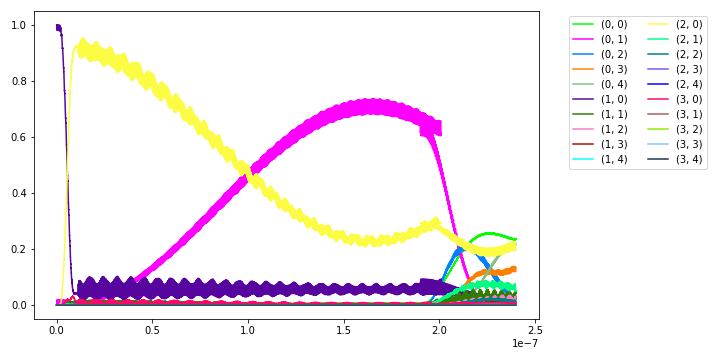
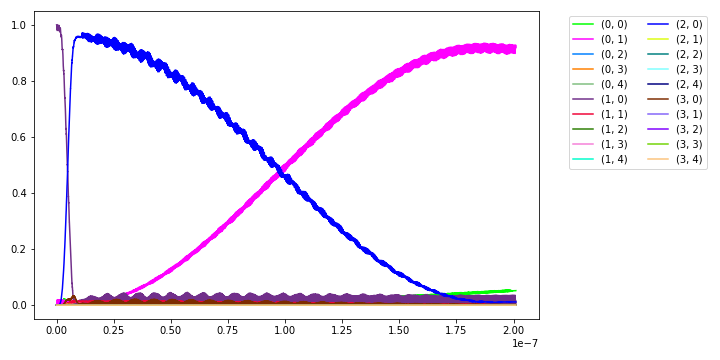
Plotting for presentation

diff --git a/Ashutosh_codes/Single_qubit_lindbladian_example.py b/Ashutosh_codes/Single_qubit_lindbladian_example.py
@@ -71,7 +71,7 @@ model.set_dressed(False)
 
 #%%
 
-sim_res = 100e9
+sim_res = 500e9
 awg_res = 2e9
 v2hz = 1e9
 
@@ -226,12 +226,12 @@ plotPopulation(exp=exp, psi_init=init_state, sequence=sequence, usePlotly=False)
 model.set_lindbladian(True)
 
 psi_init = [[0] * model.tot_dim]
-init_state_index = model.get_state_indeces([(1,)])[0]
+init_state_index = model.get_state_indeces([(0,)])[0]
 psi_init[0][init_state_index] = 1
 init_state = tf.transpose(tf.constant(psi_init, tf.complex128))
 if model.lindbladian:
     init_state = tf_utils.tf_state_to_dm(init_state)
-sequence = ["nodrive[0]"]#['x[0]']
+sequence = ['x[0]']#["nodrive[0]"]#['x[0]']
 
 
 plotPopulationFromState(
@@ -250,23 +250,23 @@ plotPopulationFromState(
 # %%
 model.set_lindbladian(False)
 psi_init = [[0] * model.tot_dim]
-init_state_index = model.get_state_indeces([(1,)])[0]
+init_state_index = model.get_state_indeces([(0,)])[0]
 psi_init[0][init_state_index] = 1
 init_state = tf.transpose(tf.constant(psi_init, tf.complex128))
 if model.lindbladian:
     init_state = tf_utils.tf_state_to_dm(init_state)
-sequence = ["nodrive[0]"]#['x[0]']
+sequence = ["x[0]"]#["nodrive[0]"]#['x[0]']
 
 plotPopulationFromState(
                     exp, 
                     init_state, 
                     sequence, 
-                    Num_shots=100, 
+                    Num_shots=1, 
                     plot_avg=True, 
                     enable_vec_map=True,
                     batch_size=None,
                     states_to_plot=None,
-                    solver="rk38"
+                    solver="rk4"
                     
 )
 # %%
@@ -285,10 +285,32 @@ result = exp.solve_stochastic_ode(
     Num_shots=Num_shots,
     enable_vec_map=False,
     batch_size=None,
-    solver="rk38"
+    solver="rk4"
 )
 psis = result["states"]
 ts = result["ts"]
+
+#%%
+
+model.set_lindbladian(True)
+psi_init = [[0] * model.tot_dim]
+init_state_index = model.get_state_indeces([(1,)])[0]
+psi_init[0][init_state_index] = 1
+init_state = tf.transpose(tf.constant(psi_init, tf.complex128))
+init_state = tf_utils.tf_state_to_dm(init_state)
+sequence = ['x[0]']
+
+Num_shots = 1
+result = exp.solve_lindblad_ode(
+    init_state=init_state,
+    sequence=sequence,
+    solver="rk4"
+)
+rhos = result["states"]
+ts = result["ts"]
+
+
+
 
 #%%
 #pops = []

diff --git a/Ashutosh_codes/Full_simulation_ode_solver.py b/Ashutosh_codes/Full_simulation_ode_solver.py
@@ -55,7 +55,7 @@ qubit = chip.Qubit(
 
 resonator_levels = 5
 resonator_frequency = 6.02e9
-resonator_t1 = 27e-6
+resonator_t1 = 1e-6
 resonator_t2star = 39e-6
 resonator_temp = 50e-3
 
@@ -407,6 +407,7 @@ exp.set_opt_gates(["swap_10_20[0, 1]", "swap_20_01[0, 1]", 'Readout[1]'])
 
 # %%
 exp.write_config("./Configs/Full_simulation_ode_solver.hjson")
+parameter_map.load_values("Full_sim/best_point_open_loop_less_pulse.c3log")
 # %%
 
 model.set_lindbladian(True)
@@ -416,7 +417,7 @@ psi_init[0][init_state_index] = 1
 init_state = tf.transpose(tf.constant(psi_init, tf.complex128))
 if model.lindbladian:
     init_state = tf_utils.tf_state_to_dm(init_state)
-sequence = ["swap_10_20[0, 1]", "swap_20_01[0, 1]", 'Readout[1]']
+sequence = ["swap_10_20[0, 1]", "swap_20_01[0, 1]"]#, 'Readout[1]']
 
 states_to_plot = [(0,8), (0,9),
                   (1,8), (1,9),
@@ -434,6 +435,18 @@ plotPopulationFromState(
                     states_to_plot=None,
                     filename="./Plots_ode_solver/States_before_opt"
 )
+#%%
+
+solve_lindblad_ode_tf = tf.function(exp.solve_lindblad_ode)
+result = solve_lindblad_ode_tf(init_state, sequence, solver="rk4")
+rhos = result["states"]
+ts = result["ts"]
+pops = []
+for rho in rhos:
+    pops.append(tf.math.real(tf.linalg.diag_part(rho)))
+pops = tf.transpose(pops)
+
+
 # %%
 model.set_lindbladian(True)
 
